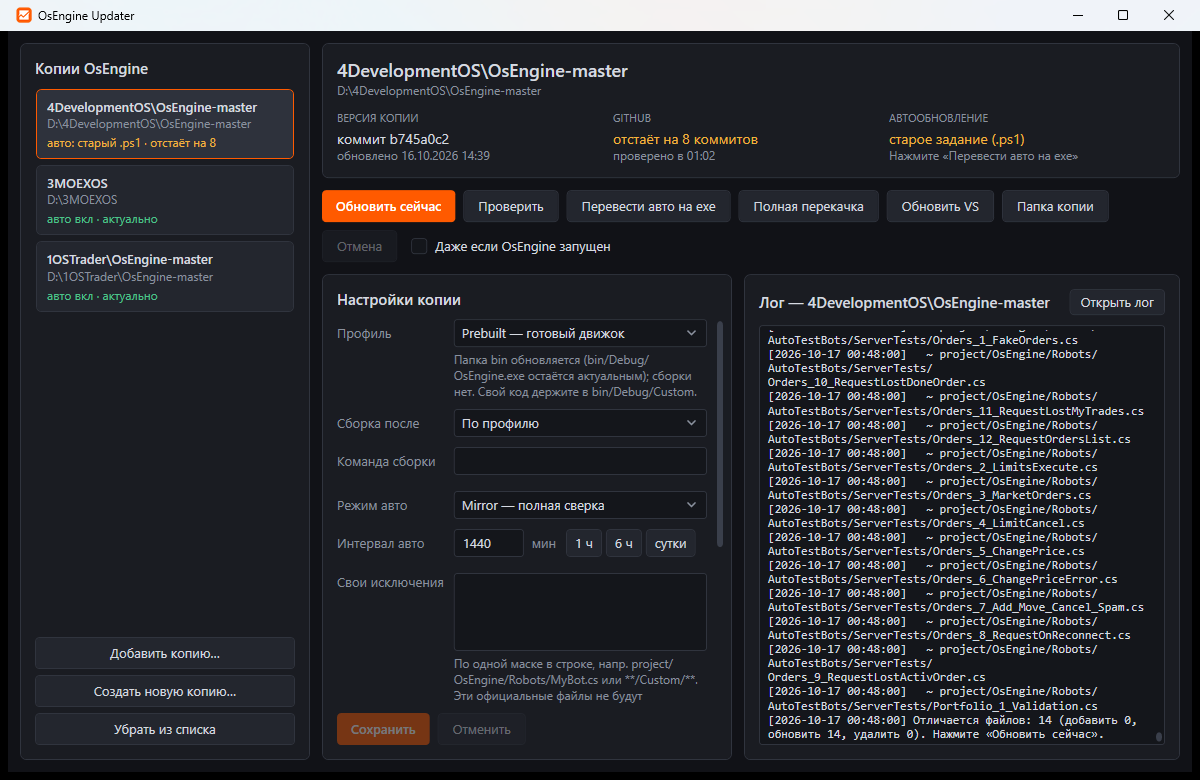
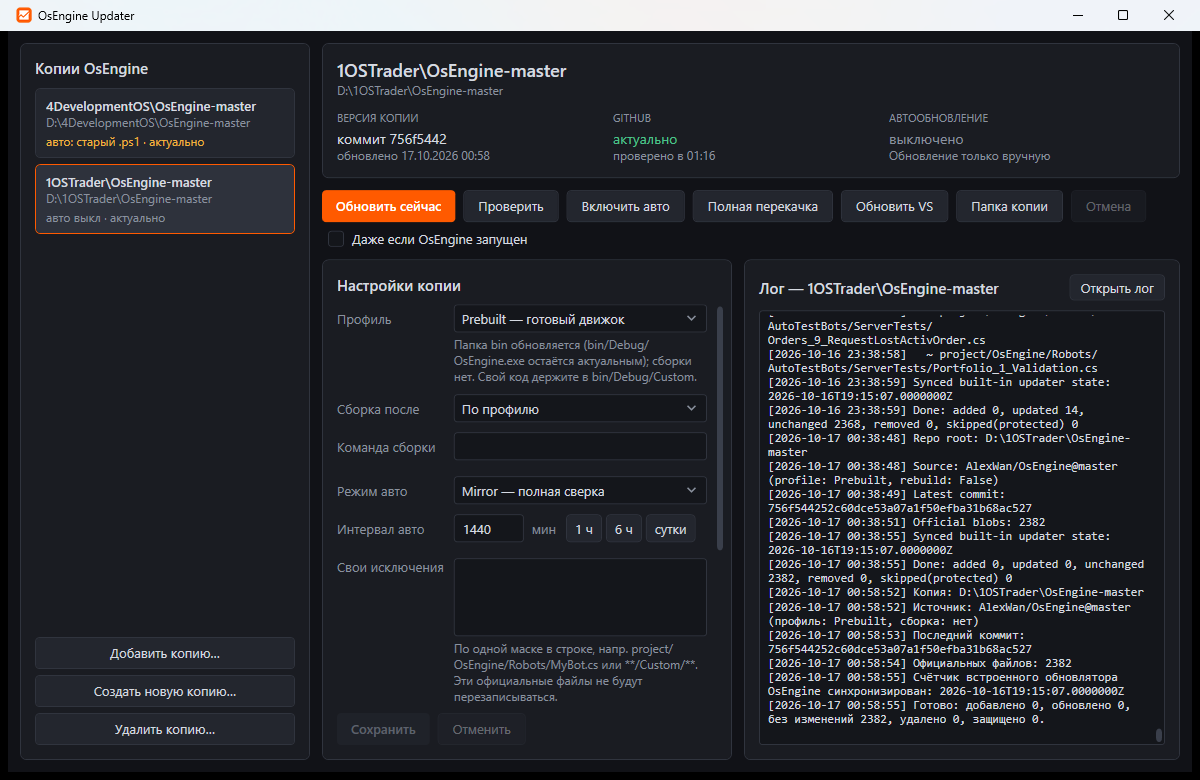
Fix light background of the copies list while busy; grey disabled accent buttons; new screenshot

diff --git a/src/OsEngineUpdater/App.xaml b/src/OsEngineUpdater/App.xaml
@@ -90,7 +90,9 @@
                                 <Setter TargetName="Bd" Property="Background" Value="{StaticResource AccentHover}"/>
                             </Trigger>
                             <Trigger Property="IsEnabled" Value="False">
-                                <Setter TargetName="Bd" Property="Opacity" Value="0.4"/>
+                                <Setter TargetName="Bd" Property="Background" Value="{StaticResource Panel2}"/>
+                                <Setter Property="Foreground" Value="{StaticResource FgDim}"/>
+                                <Setter TargetName="Bd" Property="Opacity" Value="0.6"/>
                             </Trigger>
                         </ControlTemplate.Triggers>
                     </ControlTemplate>
@@ -256,6 +258,23 @@
             <Setter Property="BorderThickness" Value="0"/>
             <Setter Property="Foreground" Value="{StaticResource Fg}"/>
             <Setter Property="ScrollViewer.HorizontalScrollBarVisibility" Value="Disabled"/>
+            <!-- свой шаблон: стандартный при IsEnabled=False заливает фон светлым -->
+            <Setter Property="Template">
+                <Setter.Value>
+                    <ControlTemplate TargetType="ListBox">
+                        <Border x:Name="Bd" Background="{TemplateBinding Background}">
+                            <ScrollViewer Focusable="False">
+                                <ItemsPresenter/>
+                            </ScrollViewer>
+                        </Border>
+                        <ControlTemplate.Triggers>
+                            <Trigger Property="IsEnabled" Value="False">
+                                <Setter TargetName="Bd" Property="Opacity" Value="0.55"/>
+                            </Trigger>
+                        </ControlTemplate.Triggers>
+                    </ControlTemplate>
+                </Setter.Value>
+            </Setter>
         </Style>
 
         <Style TargetType="ListBoxItem">
